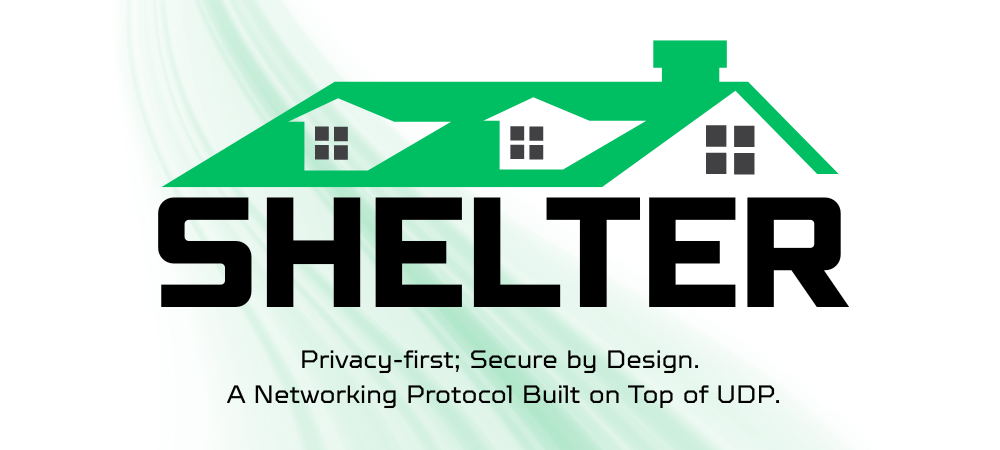
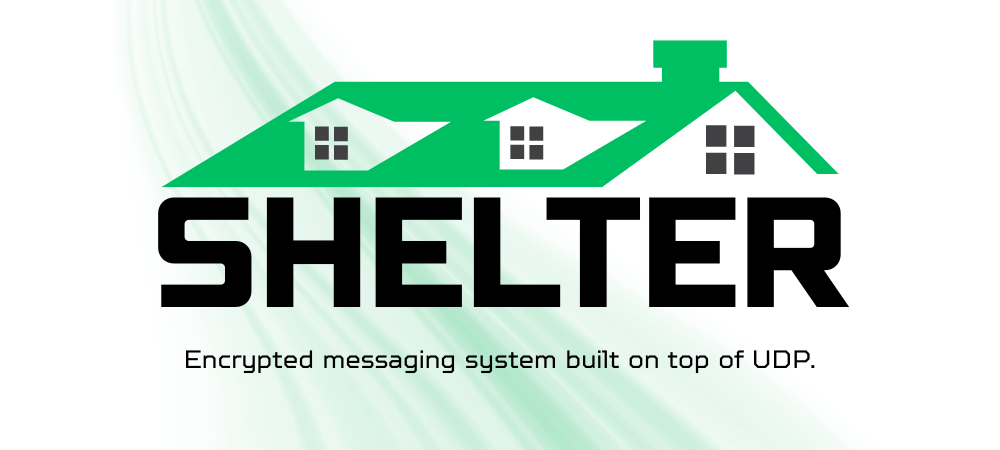
docs: update README for clarity and improve Bun installation instructions

Changed region(s): [[0.186, 0.7778, 0.806, 0.9022]]

diff --git a/README.md b/README.md
@@ -1,8 +1,5 @@
 ![Shelter Logo](./docs/Shelter%20Github%20Banner.png)
 
-_Note : This project is in early development. Some API features can change before stable release.
-Also, the project is open to contributions and suggestions. Feel free to open issues or pull requests!_
-
 # Stacks
 
 - Uses Blake3 for hashing (via @noble/hashes).
@@ -36,7 +33,7 @@ sequenceDiagram
 
 # Try
 
-## With Bun
+## From Source, With Bun
 
 - Cloning the repo:
 
@@ -48,7 +45,11 @@ cd shelter
 Install Bun (if not already installed):
 
 ```bash
-curl -fsSL https://bun.sh/install | bash
+# Linux / macOS
+$ curl -fsSL https://bun.sh/install | bash
+
+# Windows (via PowerShell)
+$ powershell -c "irm bun.sh/install.ps1 | iex"
 ```
 
 - Install dependencies:
@@ -57,10 +58,14 @@ curl -fsSL https://bun.sh/install | bash
 bun install
 ```
 
-- Run the example app:
+```bash
+bun run ./apps/shelter-daemon.ts
+```
+
+- In another terminal, run the CLI:
 
 ```bash
-bun run ./app/main.ts
+bun run ./apps/shelter-cli.ts help
 ```
 
 ## Standalone Daemon & CLI
@@ -72,29 +77,13 @@ Pre-built binaries are available in the [Releases](https://github.com/anthromeda
 - Secure by default: only the packet receiver can decrypt the data.
 - Peer-to-peer: no central servers required.
 - Low latency: built on top of UDP for fast data transmission.
-- High-level language bridges.
-- Support to co-exist with the existing internet infrastructure (HTTP/S, WebSockets, etc.).
-
-# The Promises
-
-- **Shelter** isn't hosted, you host it.
-- **Shelter** isn't owned, you own it.
-- **Shelter** isn't monitored, you are private.
-- **Shelter** isn't centralized, you are in control.
 
 # Roadmap
 
-- [x] Core Protocol Design
 - [x] Working Networking Prototype (to send data between two peers or broadcast)
-- [ ] Make it reliable and fast (retransmissions, ordering, etc.)
 - [x] Encryption & Decryption of messages
 - [x] Peer Discovery (SEEK / SEEK_BACK)
 - [ ] Local Petname System
-- [ ] Translate code into Rust, Haxe or Zen-C (when possible)
-- [ ] Reporting Bad Actors
-- [ ] Profile System: a public key for each profile, but linked to the parent public key.
-- [ ] High-level Language Bridges (JavaScript, Python, Rust, Go, etc.)
-- [ ] Documentation & Tutorials
 
 # CLI Documentation
 
